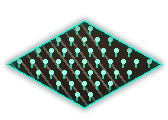
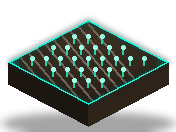
feat(art): mine-entrance gold node + raised dimensional farm bed
Reworked the two sprites that read as flat/out-of-place: the gold node is
now a timber-framed mine shaft cut into dark rock with ore glinting inside
and piled at the mouth; the farm is a raised isometric soil bed (top +
side faces) with furrow rows and teal sprouts, so both sit with depth
alongside the dimensional buildings. Sprite offsets adjusted to ground them.

diff --git a/tools/make_farm_sprite.py b/tools/make_farm_sprite.py
@@ -1,10 +1,10 @@
 #!/usr/bin/env python3
 """Generate an isometric farm-plot sprite for Itzal Rising.
 
-A dark tilled-earth diamond with furrow rows, electric-teal crop sprouts and a
-soft neon edge — fits the "Basalt & Neon" look while reading clearly as a farm
-(the procedural TextureGenerator placeholder looked flat/ugly). Output:
-assets/buildings/farm.png. Wired into Farm.tscn as a Sprite2D.
+A raised tilled-earth bed (top face + two soil side faces, so it reads with
+depth like the other buildings, not a flat decal) with furrow rows, electric-
+teal crop sprouts and a neon edge. Output: assets/buildings/farm.png, wired
+into Farm.tscn as a Sprite2D.
 
 Usage:  python tools/make_farm_sprite.py
 """
@@ -18,65 +18,79 @@ from PIL import Image, ImageDraw, ImageFilter
 ROOT = Path(__file__).resolve().parent.parent
 OUT = ROOT / "assets" / "buildings" / "farm.png"
 
-W, H = 168, 120
-CX, CY = W // 2, H // 2 + 4
-HW, HH = 78, 44  # diamond half-width / half-height
+W, H = 176, 132
+HW, HH = 80, 42          # top-face diamond half-width / half-height
+DEPTH = 22               # soil thickness (side faces)
 
-SOIL_TOP = (60, 48, 36)
-SOIL_BOT = (34, 26, 20)
-FURROW = (78, 62, 44)
-CROP = (40, 210, 165)
-CROP_TIP = (150, 255, 230)
 NEON = (0, 235, 205)
-
-
-def _diamond(cx: int, cy: int, hw: int, hh: int):
-	return [(cx, cy - hh), (cx + hw, cy), (cx, cy + hh), (cx - hw, cy)]
+SOIL_TOP_A = (66, 52, 38)
+SOIL_TOP_B = (40, 31, 23)
+SOIL_LEFT = (28, 22, 16)
+SOIL_RIGHT = (46, 36, 26)
+FURROW = (84, 66, 46)
+CROP = (40, 210, 165)
+CROP_TIP = (160, 255, 232)
 
 
 def main() -> None:
 	OUT.parent.mkdir(parents=True, exist_ok=True)
 	img = Image.new("RGBA", (W, H), (0, 0, 0, 0))
 	draw = ImageDraw.Draw(img)
+	cx = W // 2
+	cy = H - DEPTH - HH - 6  # top-face vertical centre
 
-	# Soil: vertical gradient clipped to the diamond.
+	top = [(cx, cy - HH), (cx + HW, cy), (cx, cy + HH), (cx - HW, cy)]
+	b = (cx, cy + HH)
+	left_pt = (cx - HW, cy)
+	right_pt = (cx + HW, cy)
+
+	# Ground shadow.
+	sh = Image.new("RGBA", (W, H), (0, 0, 0, 0))
+	ImageDraw.Draw(sh).ellipse([cx - HW - 6, cy + HH + DEPTH - 14, cx + HW + 6, cy + HH + DEPTH + 8],
+		fill=(0, 0, 0, 90))
+	img.alpha_composite(sh.filter(ImageFilter.GaussianBlur(4)))
+	draw = ImageDraw.Draw(img)
+
+	# Side faces (soil cross-section) give the bed height.
+	draw.polygon([left_pt, b, (b[0], b[1] + DEPTH), (left_pt[0], left_pt[1] + DEPTH)], fill=SOIL_LEFT)
+	draw.polygon([right_pt, b, (b[0], b[1] + DEPTH), (right_pt[0], right_pt[1] + DEPTH)], fill=SOIL_RIGHT)
+
+	# Top face: gradient soil clipped to the diamond.
 	soil = Image.new("RGBA", (W, H), (0, 0, 0, 0))
 	sdraw = ImageDraw.Draw(soil)
-	for y in range(H):
-		t = max(0.0, min(1.0, (y - (CY - HH)) / float(2 * HH)))
-		c = tuple(int(SOIL_TOP[i] + (SOIL_BOT[i] - SOIL_TOP[i]) * t) for i in range(3))
+	for y in range(cy - HH, cy + HH):
+		t = (y - (cy - HH)) / float(2 * HH)
+		c = tuple(int(SOIL_TOP_A[i] + (SOIL_TOP_B[i] - SOIL_TOP_A[i]) * t) for i in range(3))
 		sdraw.line([(0, y), (W, y)], fill=c + (255,))
 	mask = Image.new("L", (W, H), 0)
-	ImageDraw.Draw(mask).polygon(_diamond(CX, CY, HW, HH), fill=255)
+	ImageDraw.Draw(mask).polygon(top, fill=255)
 	img.paste(soil, (0, 0), mask)
+	draw = ImageDraw.Draw(img)
 
-	# Furrow rows: parallel lines along one iso axis, clipped to the soil.
+	# Furrow rows along one iso axis, clipped to the top face.
 	rows = Image.new("RGBA", (W, H), (0, 0, 0, 0))
 	rdraw = ImageDraw.Draw(rows)
 	for k in range(-6, 7):
-		off = k * 11
-		rdraw.line([(CX - HW + off, CY - HH - 8), (CX + off, CY + HH + 8)],
-			fill=FURROW + (150,), width=2)
+		off = k * 12
+		rdraw.line([(cx - HW + off, cy - HH - 6), (cx + off, cy + HH + 6)], fill=FURROW + (150,), width=2)
 	img.paste(rows, (0, 0), Image.composite(rows.split()[3], Image.new("L", (W, H), 0), mask))
+	draw = ImageDraw.Draw(img)
 
-	# Crop sprouts on a grid inside the diamond.
+	# Crop sprouts on a grid inside the top face.
 	for gx in range(-5, 6):
 		for gy in range(-3, 4):
-			px = CX + gx * 13 + (6 if gy % 2 else 0)
-			py = CY + gy * 11
-			# inside-diamond test
-			if abs(px - CX) / HW + abs(py - CY) / HH > 0.86:
+			px = cx + gx * 14 + (7 if gy % 2 else 0)
+			py = cy + gy * 11
+			if abs(px - cx) / HW + abs(py - cy) / HH > 0.82:
 				continue
-			draw.line([(px, py + 3), (px, py - 3)], fill=CROP, width=2)
-			draw.ellipse([px - 2, py - 5, px + 2, py - 1], fill=CROP_TIP)
+			draw.line([(px, py + 3), (px, py - 4)], fill=CROP, width=2)
+			draw.ellipse([px - 2, py - 6, px + 2, py - 2], fill=CROP_TIP)
 
-	# Neon edge with a soft glow.
+	# Neon edge on the top diamond + a glow.
 	glow = Image.new("RGBA", (W, H), (0, 0, 0, 0))
-	ImageDraw.Draw(glow).polygon(_diamond(CX, CY, HW, HH), outline=NEON + (255,), width=3)
-	glow = glow.filter(ImageFilter.GaussianBlur(3))
-	img = Image.alpha_composite(img, glow)
-	draw = ImageDraw.Draw(img)
-	draw.polygon(_diamond(CX, CY, HW, HH), outline=NEON + (230,), width=2)
+	ImageDraw.Draw(glow).polygon(top, outline=NEON + (255,), width=3)
+	img = Image.alpha_composite(img, glow.filter(ImageFilter.GaussianBlur(3)))
+	ImageDraw.Draw(img).polygon(top, outline=NEON + (220,), width=2)
 
 	img.save(OUT)
 	print("WROTE %s (%dx%d)" % (OUT.relative_to(ROOT), W, H))

diff --git a/tools/make_resource_sprites.py b/tools/make_resource_sprites.py
@@ -77,35 +77,58 @@ def make_tree() -> None:
 
 
 def make_goldmine() -> None:
-	W, H = 152, 116
+	# A timber-framed mine entrance dug into a dark rock face, gold ore glinting
+	# inside and piled at the mouth.
+	W, H = 156, 124
 	img = Image.new("RGBA", (W, H), (0, 0, 0, 0))
+	cx = W // 2
+	gy = H - 16  # ground line
+	_ground_shadow(img, cx, gy, 60, 16)
 	draw = ImageDraw.Draw(img)
-	cx, cy = W // 2, H - 34
-	_ground_shadow(img, cx, H - 16, 58, 18)
-	draw = ImageDraw.Draw(img)
-	# Basalt mound: stacked dark ellipses with a top highlight.
-	draw.ellipse([cx - 60, cy - 30, cx + 60, cy + 40], fill=(34, 36, 44))
-	draw.ellipse([cx - 44, cy - 40, cx + 40, cy + 18], fill=(46, 49, 58))
-	draw.ellipse([cx - 30, cy - 44, cx + 18, cy - 6], fill=(58, 62, 72))
-	# Neon-teal rim light along the top of the rock.
-	draw.arc([cx - 60, cy - 34, cx + 60, cy + 36], 195, 345, fill=NEON + (160,), width=2)
-	# Glowing amber crystal shards.
-	shards = [(cx - 24, cy - 6, 16, 34), (cx + 6, cy - 16, 20, 48),
-		(cx + 30, cy + 2, 14, 28), (cx - 4, cy + 6, 12, 24)]
+
+	# Rock cliff: stacked dark slate slabs (chunky, not round).
+	draw.polygon([(cx - 64, gy), (cx - 52, gy - 64), (cx - 10, gy - 80),
+		(cx + 44, gy - 70), (cx + 64, gy - 30), (cx + 60, gy)], fill=(40, 42, 50))
+	draw.polygon([(cx - 40, gy - 30), (cx - 30, gy - 70), (cx + 8, gy - 78),
+		(cx + 38, gy - 60), (cx + 44, gy - 28)], fill=(52, 55, 65))
+	# Neon-teal rim light along the top ridge.
+	draw.line([(cx - 52, gy - 64), (cx - 10, gy - 80), (cx + 44, gy - 70)],
+		fill=NEON + (150,), width=2)
+
+	# Mine shaft: a dark arched opening (rounded-top rectangle).
+	mw, mh = 46, 54
+	ax0, ay0, ax1, ay1 = cx - mw // 2, gy - mh, cx + mw // 2, gy
+	draw.rounded_rectangle([ax0, ay0, ax1, ay1], radius=mw // 2, fill=(10, 9, 13))
+	draw.rectangle([ax0, ay0 + mw // 2, ax1, ay1], fill=(10, 9, 13))
+
+	# Gold glints deep in the shaft (glow).
+	glints = [(cx - 8, gy - 30), (cx + 9, gy - 22), (cx + 1, gy - 14), (cx - 12, gy - 12)]
 	glow = Image.new("RGBA", (W, H), (0, 0, 0, 0))
 	gdraw = ImageDraw.Draw(glow)
-	for (sx, sy, sw, sh) in shards:
-		gdraw.polygon([(sx, sy - sh), (sx - sw // 2, sy), (sx + sw // 2, sy)],
-			fill=(255, 190, 60, 200))
-	glow = glow.filter(ImageFilter.GaussianBlur(5))
+	for (px, py) in glints:
+		gdraw.ellipse([px - 6, py - 6, px + 6, py + 6], fill=(255, 195, 70, 200))
+	# Ore pile at the mouth (amber rocks).
+	ore = [(cx - 18, gy - 4, 10), (cx - 2, gy - 1, 12), (cx + 16, gy - 3, 9), (cx + 6, gy - 9, 8)]
+	for (ox, oy, orad) in ore:
+		gdraw.ellipse([ox - orad, oy - orad, ox + orad, oy + orad], fill=(247, 178, 42, 160))
+	glow = glow.filter(ImageFilter.GaussianBlur(4))
 	img.alpha_composite(glow)
 	draw = ImageDraw.Draw(img)
-	for (sx, sy, sw, sh) in shards:
-		draw.polygon([(sx, sy - sh), (sx - sw // 2, sy), (sx + sw // 2, sy)],
-			fill=(247, 178, 42))
-		# Bright facet + tip.
-		draw.polygon([(sx, sy - sh), (sx, sy), (sx + sw // 2, sy)], fill=(255, 214, 92))
-		draw.line([(sx, sy - sh), (sx, sy)], fill=(255, 245, 200), width=1)
+	for (px, py) in glints:
+		draw.ellipse([px - 2, py - 2, px + 2, py + 2], fill=(255, 226, 130))
+	for (ox, oy, orad) in ore:
+		draw.ellipse([ox - orad, oy - orad, ox + orad, oy + orad], fill=(214, 150, 36))
+		draw.ellipse([ox - orad, oy - orad, ox + orad // 2, oy], fill=(255, 206, 90))
+
+	# Timber frame around the shaft: two posts + a lintel, with neon bolts.
+	post = 8
+	beam = (74, 50, 30)
+	draw.rectangle([ax0 - post, ay0, ax0, gy], fill=beam)
+	draw.rectangle([ax1, ay0, ax1 + post, gy], fill=beam)
+	draw.rectangle([ax0 - post - 4, ay0 - post, ax1 + post + 4, ay0], fill=beam)
+	for bx in (ax0 - 2, ax1 + 2):
+		draw.ellipse([bx - 2, ay0 - post + 2, bx + 2, ay0 - 2], fill=NEON + (220,))
+
 	img.save(OUT_DIR / "goldmine.png")
 	print("WROTE assets/world/goldmine.png (%dx%d)" % (W, H))
 
